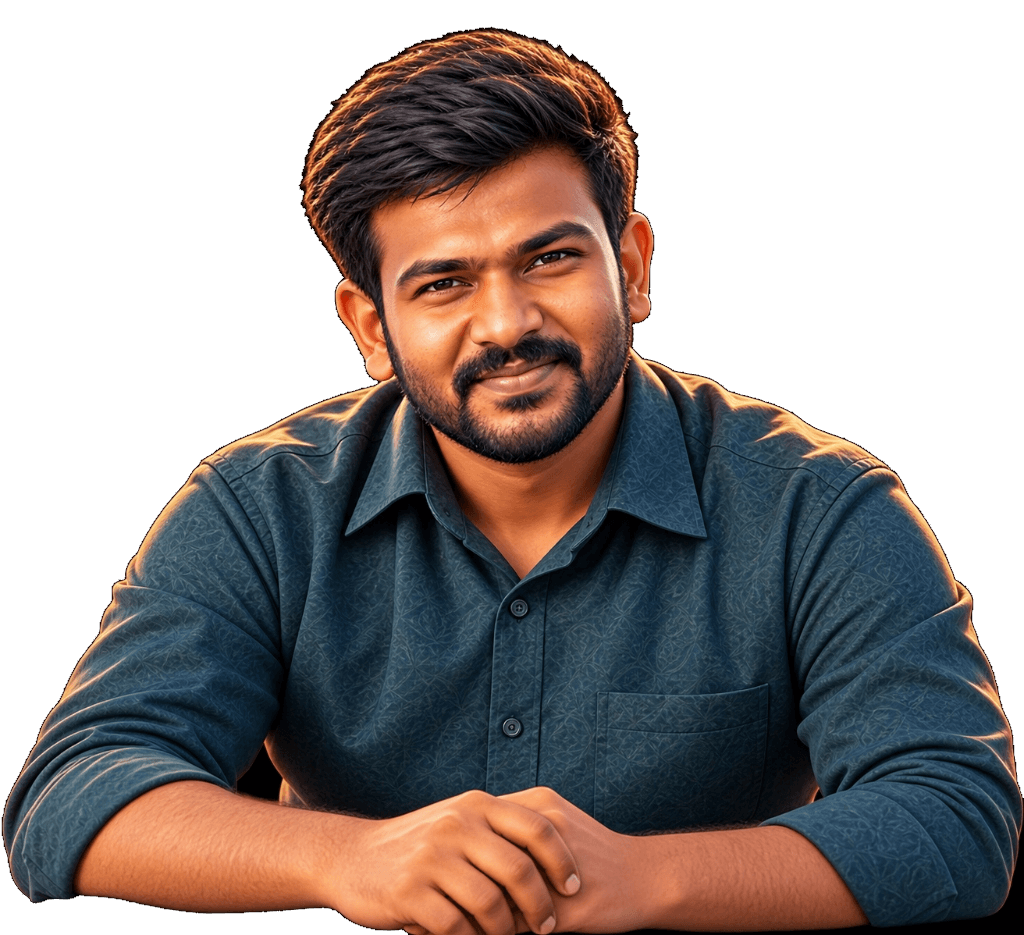
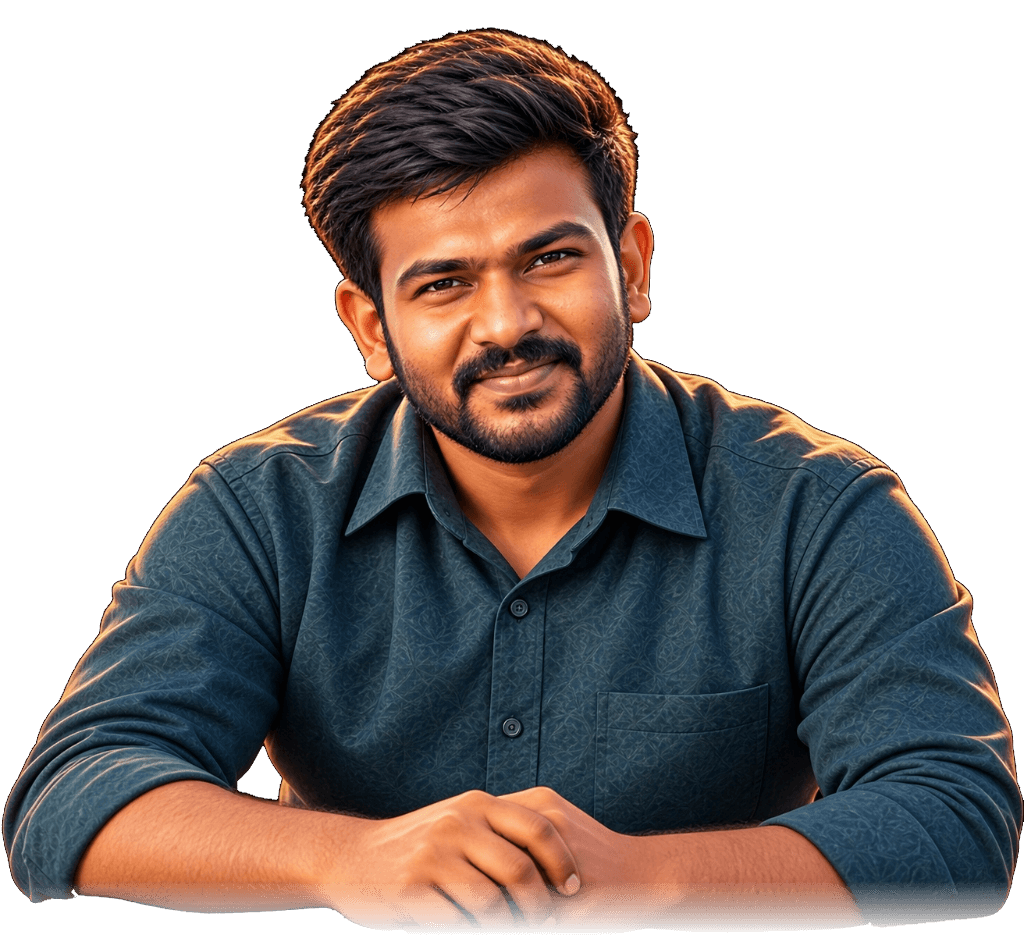
feat(about): fix image outline and add interactive golden hover glow animation

Changed region(s): [[0.0312, 0.8995, 1.0, 1.0], [0.2188, 0.8064, 0.2812, 0.8684]]

diff --git a/src/app/globals.css b/src/app/globals.css
@@ -9725,21 +9725,21 @@ html:not(.js) .hero-expand-actions {
 .about-hero {
   position: relative;
   overflow: hidden;
-  padding-top: clamp(48px, 7vw, 96px);
+  padding-top: clamp(28px, 4vw, 56px);
   padding-bottom: 0;
   border-bottom: 1px solid var(--hairline);
 }
 
 .about-hero__grid {
   display: grid;
-  grid-template-columns: 55% 45%;
-  gap: 32px;
+  grid-template-columns: minmax(0, 1.15fr) minmax(300px, 0.85fr);
+  gap: clamp(24px, 3.5vw, 48px);
   align-items: flex-end;
-  min-height: 520px;
+  min-height: auto;
 }
 
 .about-hero__text {
-  padding-bottom: clamp(48px, 6vw, 80px);
+  padding-bottom: clamp(32px, 4.5vw, 60px);
   align-self: center;
 }
 
@@ -9788,42 +9788,79 @@ html:not(.js) .hero-expand-actions {
   width: 100%;
 }
 
+/* Ambient breathing animation for the background gold glow */
+@keyframes aboutGlowPulse {
+  0%, 100% {
+    transform: translateX(-50%) scale(1);
+    opacity: 0.85;
+  }
+  50% {
+    transform: translateX(-50%) scale(1.06);
+    opacity: 1;
+  }
+}
+
 .about-avatar-glow {
   position: absolute;
-  bottom: 0;
+  bottom: 24px;
   left: 50%;
   transform: translateX(-50%);
-  width: clamp(260px, 35vw, 420px);
-  height: clamp(260px, 35vw, 420px);
+  width: clamp(240px, 30vw, 360px);
+  height: clamp(240px, 30vw, 360px);
   border-radius: 50%;
-  background: radial-gradient(circle, rgba(213, 183, 122, 0.22) 0%, rgba(213, 183, 122, 0.06) 50%, rgba(17, 18, 20, 0) 70%);
+  background: radial-gradient(circle, rgba(213, 183, 122, 0.26) 0%, rgba(213, 183, 122, 0.09) 50%, rgba(17, 18, 20, 0) 72%);
   pointer-events: none;
   z-index: 0;
   filter: blur(28px);
+  transition: transform 520ms cubic-bezier(0.16, 1, 0.3, 1),
+              opacity 520ms cubic-bezier(0.16, 1, 0.3, 1),
+              filter 520ms ease,
+              background 520ms ease;
+  animation: aboutGlowPulse 6s ease-in-out infinite;
 }
 
 .about-avatar {
   position: relative;
   z-index: 1;
   width: 100%;
-  max-width: 420px;
+  max-width: clamp(280px, 28vw, 360px);
   display: flex;
   justify-content: center;
   align-items: flex-end;
   background: transparent;
   border: none;
   box-shadow: none;
+  cursor: pointer;
 }
 
 .about-avatar__media {
   display: block;
   width: 100%;
   height: auto;
-  max-height: 520px;
+  max-height: 440px;
   object-fit: contain;
   vertical-align: bottom;
   background: transparent;
   border: none;
+  -webkit-mask-image: linear-gradient(to bottom, black 82%, transparent 100%);
+  mask-image: linear-gradient(to bottom, black 82%, transparent 100%);
+  transition: transform 480ms cubic-bezier(0.16, 1, 0.3, 1),
+              filter 480ms ease;
+  will-change: transform, filter;
+}
+
+/* Hover State: Radiate intensified warm gold glow and subtle upward avatar lift */
+.about-hero__avatar-col:hover .about-avatar-glow {
+  transform: translateX(-50%) scale(1.22);
+  opacity: 1;
+  filter: blur(36px);
+  background: radial-gradient(circle, rgba(213, 183, 122, 0.46) 0%, rgba(213, 183, 122, 0.18) 46%, rgba(213, 183, 122, 0.04) 70%, rgba(17, 18, 20, 0) 80%);
+  animation-play-state: paused;
+}
+
+.about-hero__avatar-col:hover .about-avatar__media {
+  transform: translateY(-4px) scale(1.015);
+  filter: drop-shadow(0 10px 24px rgba(213, 183, 122, 0.22));
 }
 
 .about-avatar-caption {
@@ -9839,6 +9876,10 @@ html:not(.js) .hero-expand-actions {
 }
 
 @media (max-width: 860px) {
+  .about-hero {
+    padding-top: clamp(24px, 5vw, 40px);
+  }
+
   .about-hero__grid {
     grid-template-columns: 1fr;
     gap: 24px;
@@ -9851,14 +9892,9 @@ html:not(.js) .hero-expand-actions {
     max-width: 280px;
   }
 
-  .about-avatar__media {
-    -webkit-mask-image: linear-gradient(to bottom, black 80%, transparent 100%);
-    mask-image: linear-gradient(to bottom, black 80%, transparent 100%);
-  }
-
   .about-hero__text {
     order: 2;
-    padding-bottom: 48px;
+    padding-bottom: 40px;
     text-align: left;
   }
 

diff --git a/src/app/about/page.tsx b/src/app/about/page.tsx
@@ -32,7 +32,7 @@ export default function AboutPage() {
 
             <div className="about-hero__avatar-col reveal">
               <div className="about-avatar-glow" aria-hidden="true" />
-              <AboutAvatar pngSrc={asset("about/avatar-v2.webp")} />
+              <AboutAvatar pngSrc={asset("about/avatar-v3.webp")} />
             </div>
           </div>
         </div>

diff --git a/src/components/AboutAvatar.tsx b/src/components/AboutAvatar.tsx
@@ -32,7 +32,7 @@ const subscribeReducedMotion = (callback: () => void) => {
 
 export default function AboutAvatar({
   webmSrc,
-  pngSrc = asset("about/avatar-v2.webp"),
+  pngSrc = asset("about/avatar-v3.webp"),
   className = "",
 }: AboutAvatarProps) {
   const videoRef = useRef<HTMLVideoElement>(null);
